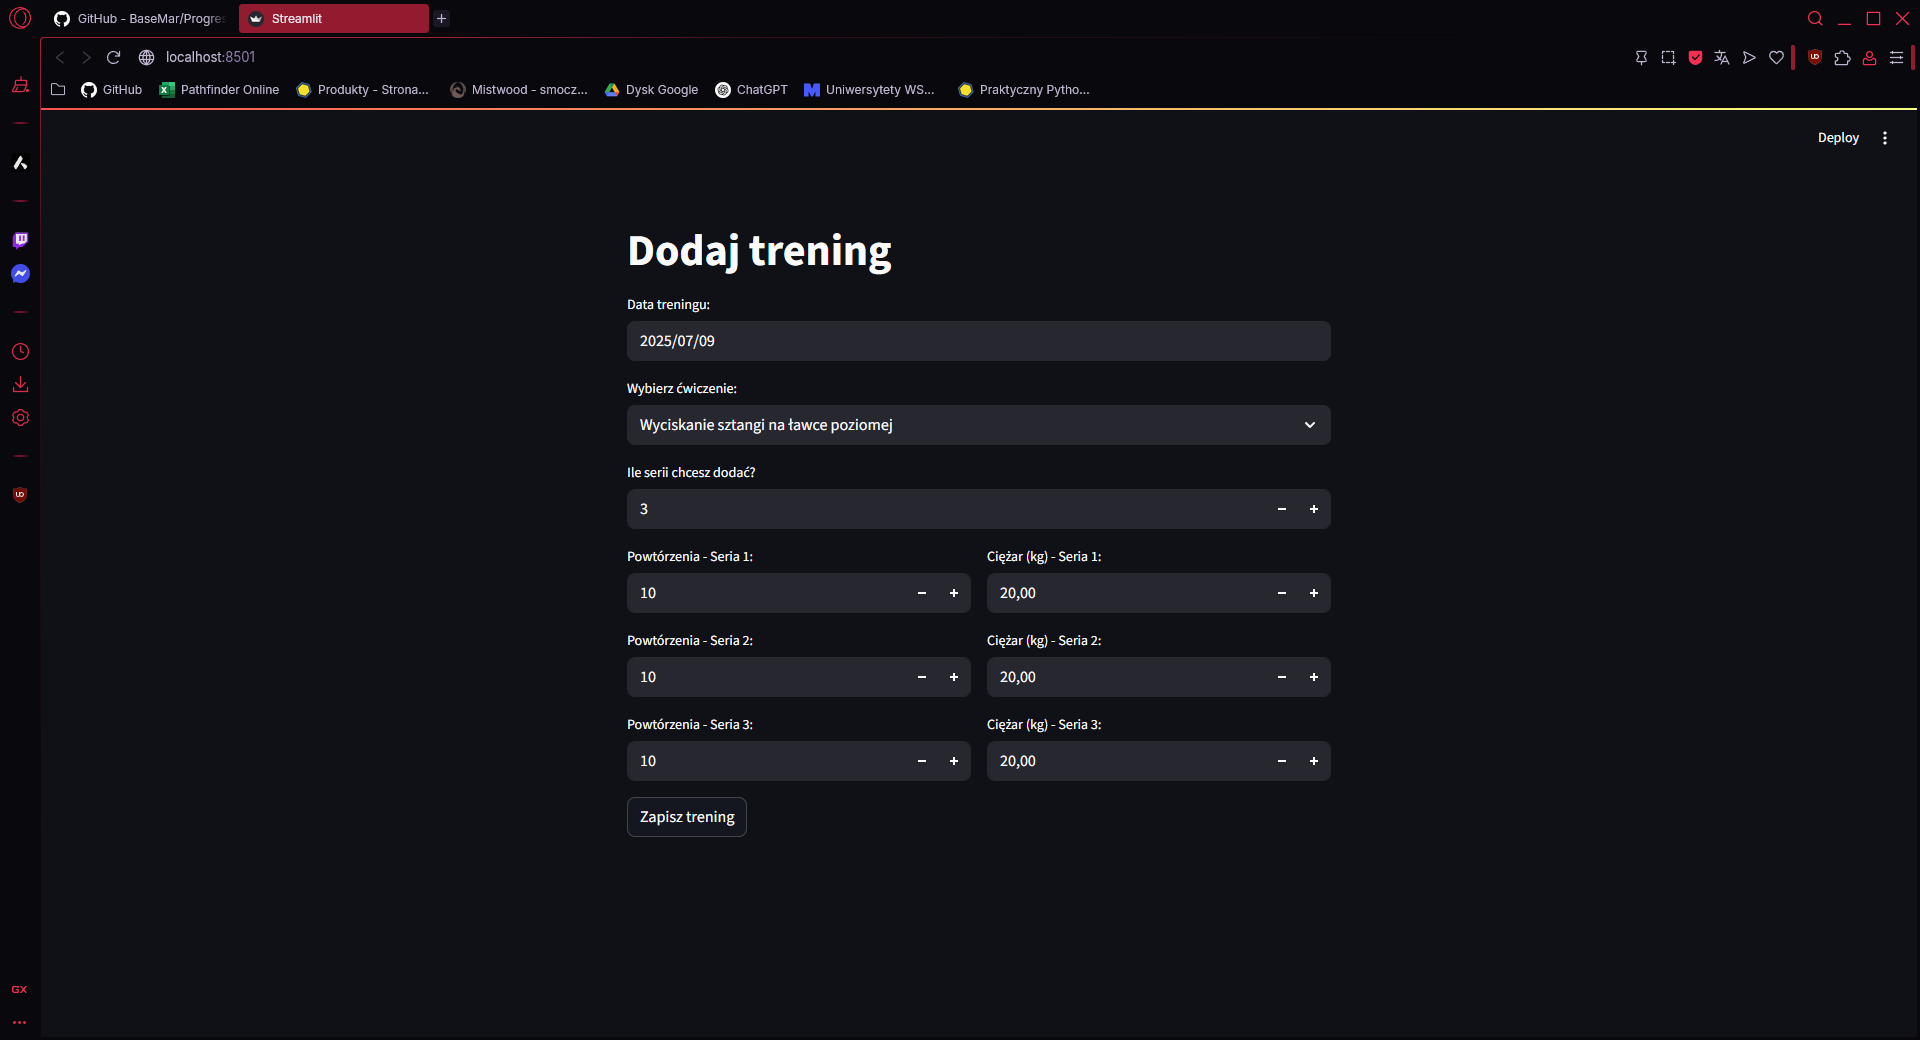
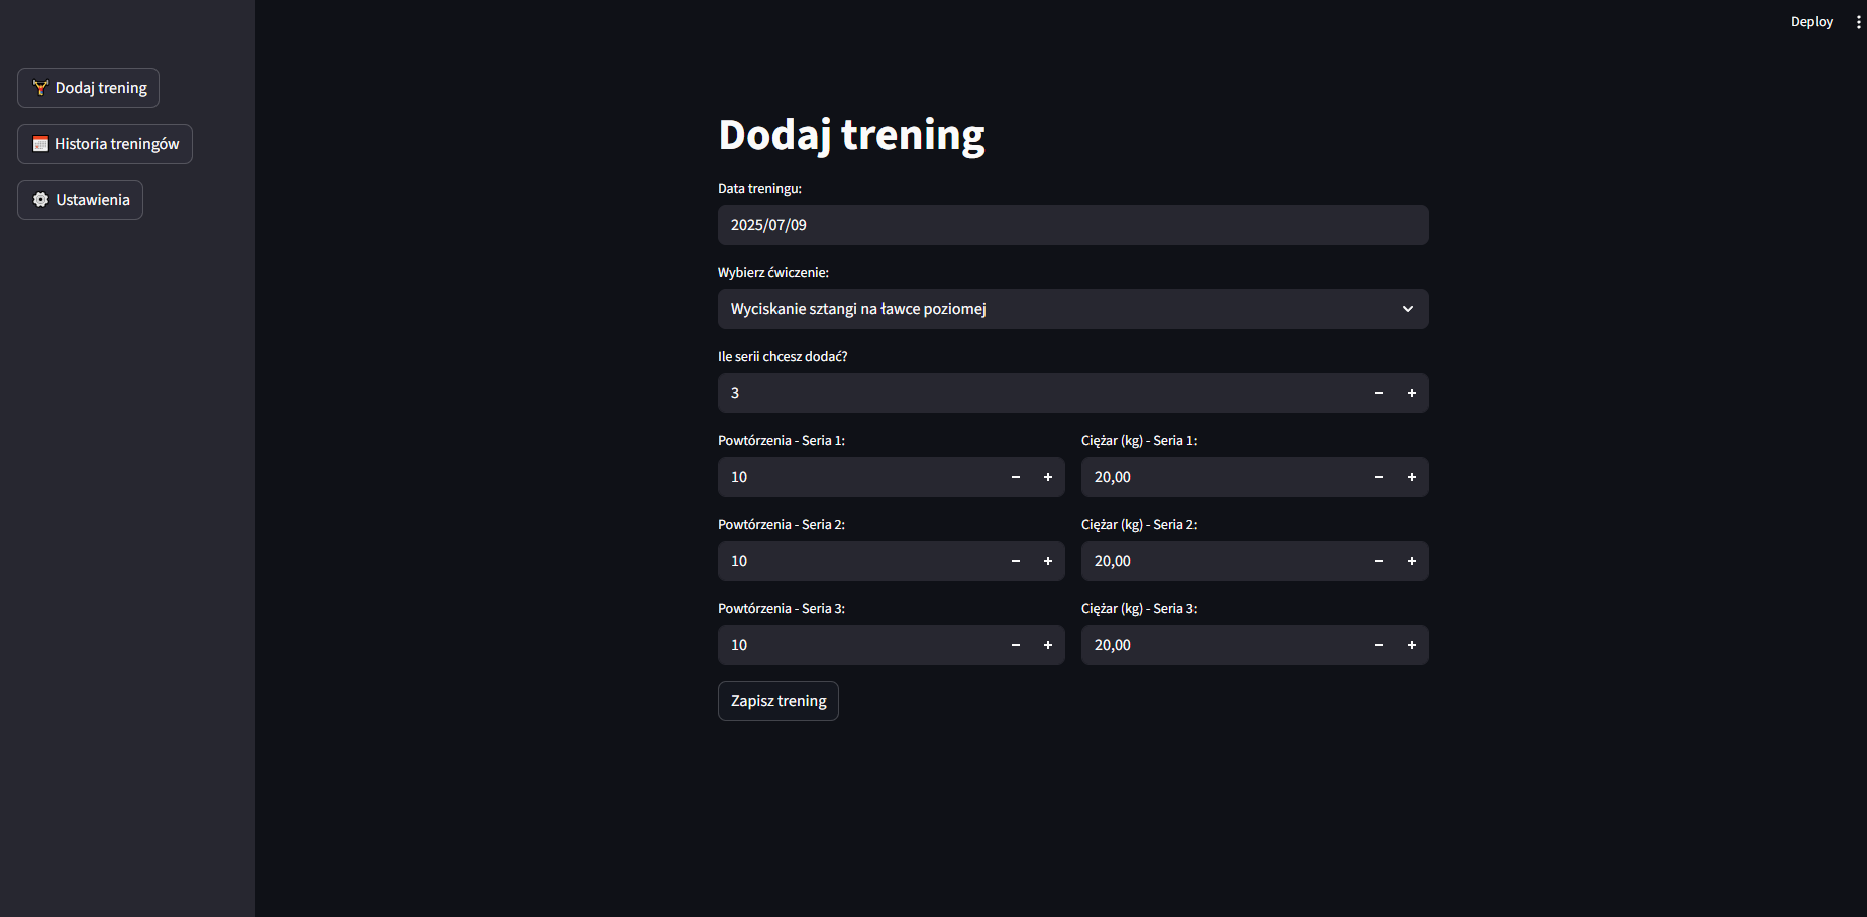
Dodanie menu bocznego, historii treningu

diff --git a/main.py b/main.py
@@ -1,5 +1,5 @@
 from database import Database
-from view import input_training
+from view import input_training, display_training_history
 from models import Training
 import streamlit as st
 
@@ -12,24 +12,47 @@ CONNECTION_STRING = (
 
 def main():
     db = Database(CONNECTION_STRING)
-
+    
     exercises_raw = db.fetch_exercises()
     exercises_dict = {row.Nazwa: row.Id for row in exercises_raw}
 
-    training = input_training(exercises_dict)
+    menu_items = [
+    {"label": "🏋 Dodaj trening", "value": "add"},
+    {"label": "📅 Historia treningów", "value": "history"},
+    {"label": "⚙ Ustawienia", "value": "settings"},
+        ]
+    page = None
 
-    if st.button("Zapisz trening"):
-        try:
-            trening_id = db.insert_training(training.data)
-            for ex in training.exercises:
-                trening_cwiczenie_id = db.insert_training_exercise(trening_id, ex.exercise_id)
-                for ser in ex.series:
-                    db.insert_training_series(trening_cwiczenie_id, ser.powtorzenia, ser.ciezar)
-            st.success("Trening został zapisany!")
-        except Exception as e:
-            st.error(f"Wystąpił błąd: {e}")
-        finally:
-            db.close()
+    for item in menu_items:
+        if st.sidebar.button(item["label"]):
+            page = item["value"]
+
+    match page:
+        case "add":
+            training = input_training(exercises_dict)
+            if st.button("Zapisz trening"):
+                try:
+                    trening_id = db.insert_training(training.data)
+                    for ex in training.exercises:
+                        trening_cwiczenie_id = db.insert_training_exercise(trening_id, ex.exercise_id)
+                        for ser in ex.series:
+                            db.insert_training_series(trening_cwiczenie_id, ser.powtorzenia, ser.ciezar)
+                    st.success("Trening został zapisany!")
+                except Exception as e:
+                    st.error(f"Wystąpił błąd: {e}")
+                finally:
+                    db.close()
+        
+        case "history":
+            history = db.fetch_training_history()
+            display_training_history(history)
+        
+        case "settings":
+            st.header("Ustawienia")
+
+        case _:
+            st.header("Witaj w aplikacji")
+            
 
 if __name__ == "__main__":
     main()

diff --git a/view.py b/view.py
@@ -3,6 +3,8 @@ from models import Series, TrainingExercise, Training
 import datetime
 
 def input_training(exercises_dict):
+    """Wyświetlenie okna z dodawanie treningu"""
+
     st.title("Dodaj trening")
     data_treningu = st.date_input("Data treningu:", datetime.date.today())
 
@@ -25,3 +27,33 @@ def input_training(exercises_dict):
     exercises.append(TrainingExercise(exercise_id=exercise_id, series=series_list))
 
     return Training(data=data_treningu, exercises=exercises)
+
+def display_training_history(history_data):
+    """Wyświetlanie okna z historią treningów"""
+
+    st.title("Historia treningów")
+
+    if not history_data:
+        st.info("Brak zapisanych treningów")
+        return
+    
+    training = {}
+    for row in history_data:
+        data = row.Data.strftime('%Y-%m-%d')
+        exercise = row.Cwiczenie
+        powt, kg = row.Powtorzenia, row.Ciezar
+        
+        if data not in training:
+            training[data] = {}
+        
+        if exercise not in training[data]:
+            training[data][exercise] = []
+
+        training[data][exercise].append((powt, kg))
+
+
+    for data, exercise in sorted(training.items(), reverse=True):
+        st.subheader(f"{data}")
+        for nazwa, serie in exercise.items():
+            serie_str = " | ".join([f"{i+1} Seria: {powt} powt., {kg} kg" for i, (powt, kg) in enumerate(serie)])
+            st.markdown(f"**{nazwa}** ➔ {serie_str}")

diff --git a/database.py b/database.py
@@ -39,3 +39,19 @@ class Database:
     def close(self):
         self.cursor.close()
         self.conn.close()
+
+    def fetch_training_history(self):
+        self.cursor.execute("""
+        SELECT 
+            t.Id AS TreningId,
+            t.Data,
+            c.Nazwa AS Cwiczenie,
+            ts.Powtorzenia,
+            ts.Ciezar
+        FROM dbo.Trening t
+        JOIN dbo.TreningCwiczenie tc ON t.Id = tc.TreningId
+        JOIN dbo.Cwiczenie c ON tc.CwiczenieId = c.Id
+        JOIN dbo.TreningSeria ts ON tc.Id = ts.TreningCwiczenieId
+        ORDER BY t.Data DESC, t.Id DESC
+    """)
+        return self.cursor.fetchall()

diff --git a/README.md b/README.md
@@ -21,10 +21,12 @@ streamlit run main.py
 
 ## Aktualnie zaimplementowane funkcjonalności:
 1. Baza ćwiczeń
-   - Lista ćwiczeń z podstawowymi i szczegółowymi partiami mięśniowymi.
+    - Lista ćwiczeń z podstawowymi i szczegółowymi partiami mięśniowymi.
 2. Dodawanie treningu
-   - Wybór ćwiczeń, rejestrowanie serii (powtórzenia, ciężar).
-   - Automatyczny zapis do bazy danych MSSQL.
+    - Wybór ćwiczeń, rejestrowanie serii (powtórzenia, ciężar).
+    - Automatyczny zapis do bazy danych MSSQL.
+3. Wyświetlenie historii treningów
+    - lista ćwiczeń wraz z liczbą serii, powtórzeń i ciężarem
 
 ## Planowane rozbudowy:
 - Podsumowania tygodniowe/miesięczne (ilość serii na partie ciała).
@@ -32,8 +34,11 @@ streamlit run main.py
 - Formularz pomiarów ciała (obwody, waga, skład ciała) z analizą zmian.
 - Tworzenie i zapisywanie planów treningowych (Push/Pull/Legs, Full Body itd.).
 - Eksport danych do CSV lub PDF.
-- Rejestracja i logowanie użytkowników.
+- filtrowanie histori treningu po dacie
 
 ## Zrzuty ekrenu
 ### Formularz dodawnia treningu
 ![Formularz treningu](images/formularz_treningu.png)
+
+### Historia treningu
+![Historia treningu](images/historia_treningu.png)
